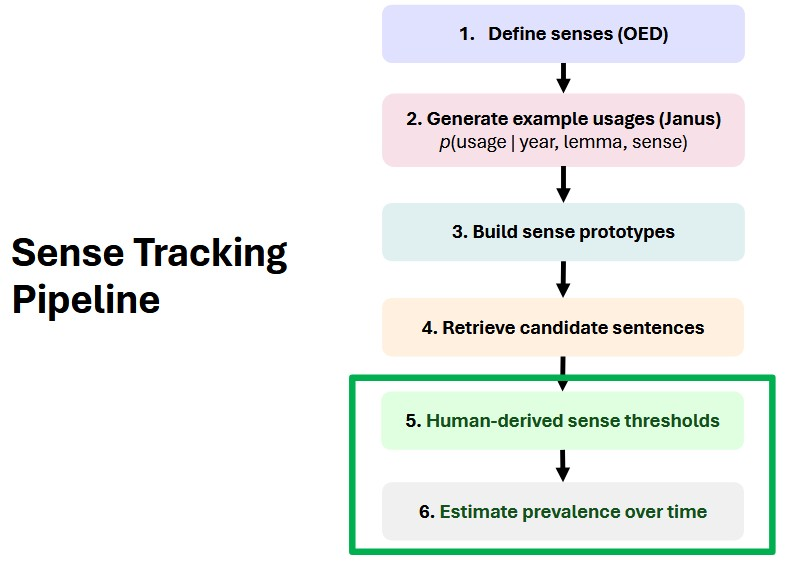
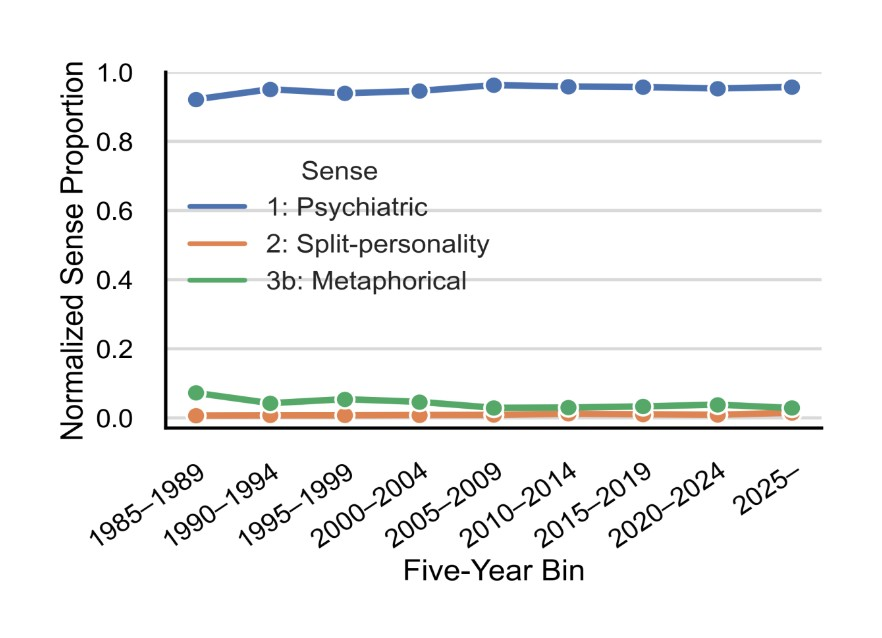
ud am

diff --git a/content/authors/admin/_index.md b/content/authors/admin/_index.md
@@ -45,11 +45,12 @@ profiles:
     url: https://orcid.org/0000-0003-3873-5021
 
 interests:
-  - Natural Language Processing
+  - Lexical Semantic Change
   - Computational Social Science
-  - Semantic Change
+  - Mental Health Language
+  - NLP Evaluation
   - Social Psychology
-  - Concept Creep & Mental Health
+  - Concept Creep 
 
 education:
   - area: PhD, Natural Language Processing & Social Psychology
@@ -198,9 +199,6 @@ education:
 
 I am an NLP and computational social science researcher studying how word meanings change across time and across scientific, media, and public language. My work combines historical text corpora, contextual embeddings, lexical resources, statistical modeling, and large language models to study semantic and conceptual change in mental-health language, media discourse, and socially contested language. I bring social science and psychology training to NLP questions about meaning, concepts, and cultural change, especially where language reflects shifting social and psychological categories. I led the development of **SIBling** and **LSC-Eval**, frameworks for modeling and evaluating lexical semantic change. More broadly, I am interested in language change and variation, shifting mental health concepts, human--LLM evaluation, and computational approaches to culturally significant questions. My work has been supported by the Australian Government Research Training Program Scholarship, Concept Creep research funding, and Change is Key! research support.
 
----
-
-**Methods & tools:** lexical semantic change analysis, contextual embeddings, diachronic word sense disambiguation, LLM-generated synthetic data, benchmark construction, human--LLM evaluation, corpus linguistics, statistical modeling, Python/R, Hugging Face, spaCy, scikit-learn, and HPC/SLURM workflows.
 
 
 